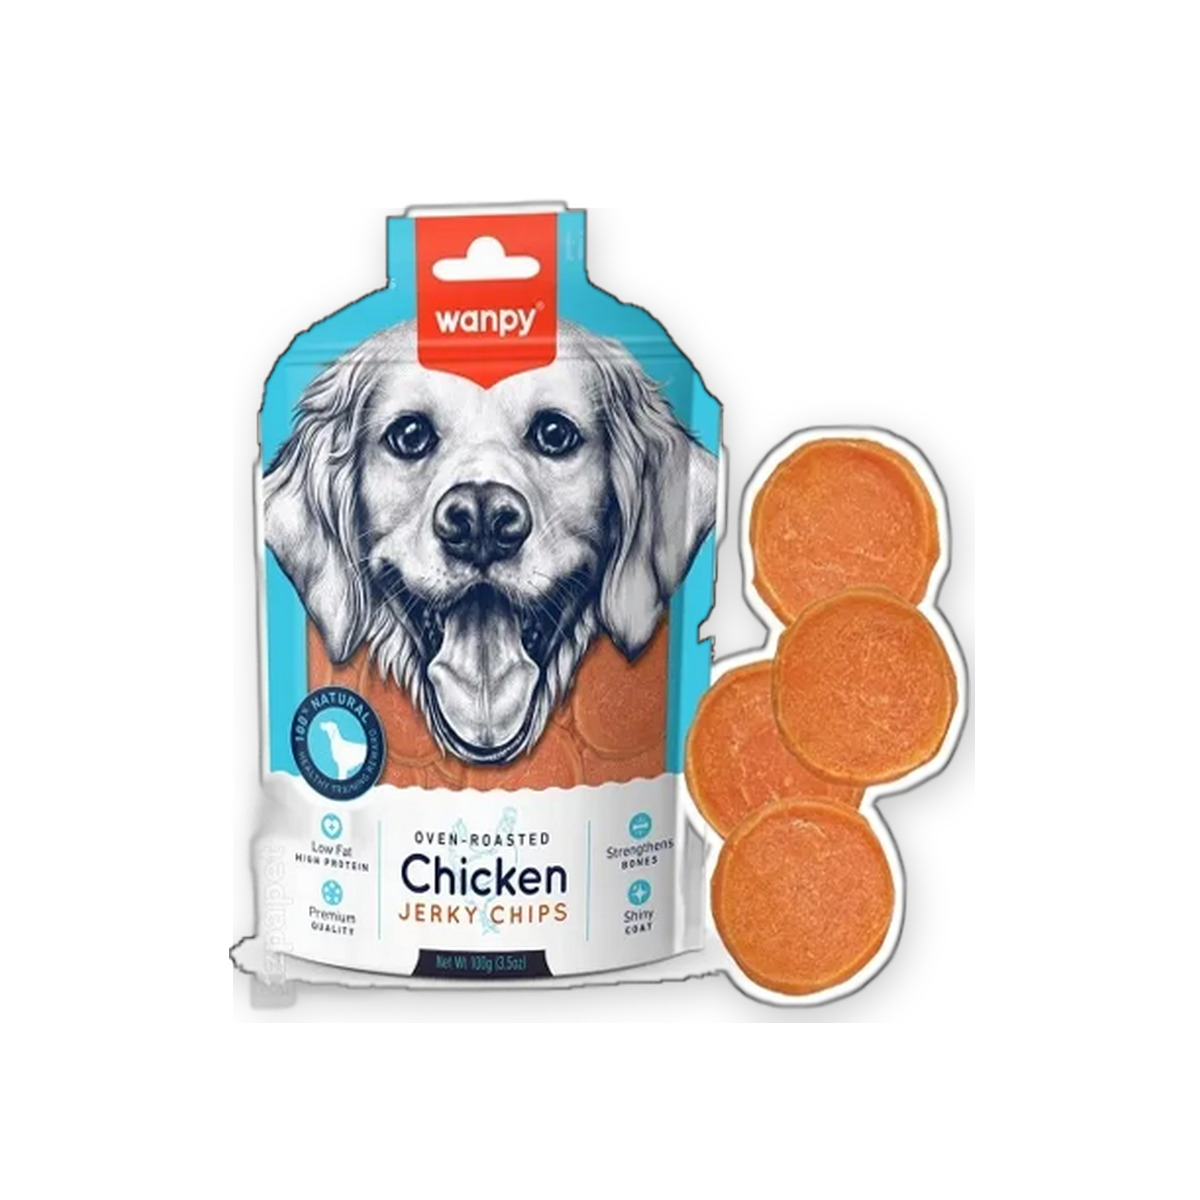
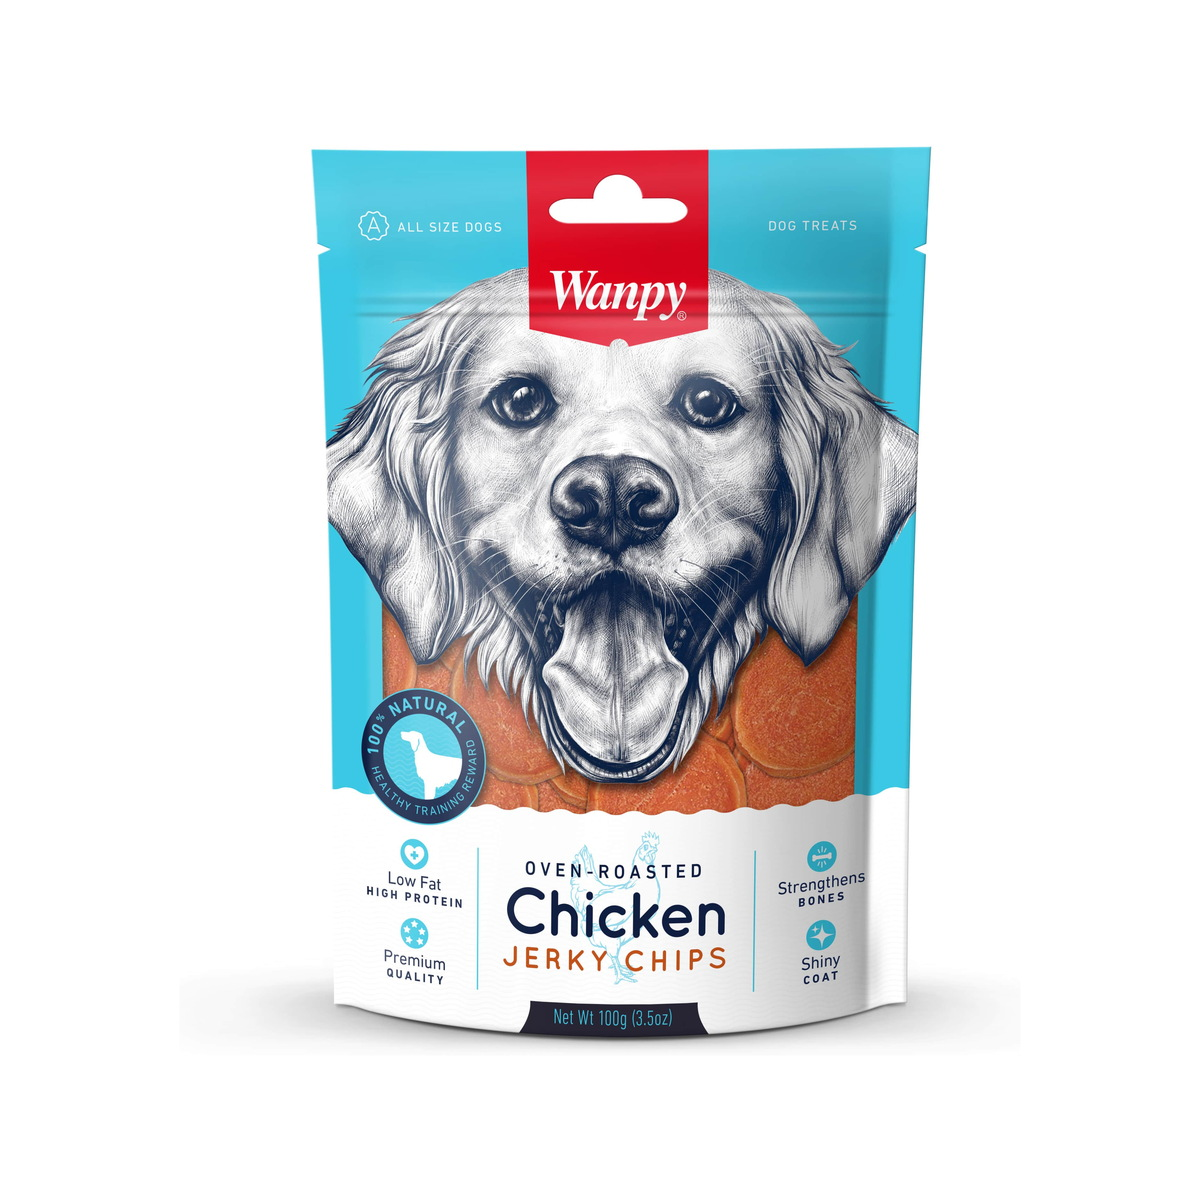
chore(shop): swap p260 Wanpy chips + p265 ACANO grass remakes + w2-v2

diff --git a/packages/api/src/data/shop-batch-multi-wave2-products.selftest.ts b/packages/api/src/data/shop-batch-multi-wave2-products.selftest.ts
@@ -1,5 +1,5 @@
 /**
- * Shop Batch-multi wave 2/5 — 10 SKUs, zero margin, 3-angle batch-multi-w2-v1 galleries.
+ * Shop Batch-multi wave 2/5 — 10 SKUs, zero margin, 3-angle batch-multi-w2-v2 galleries.
  * Run: npx tsx src/data/shop-batch-multi-wave2-products.selftest.ts
  */
 import assert from 'node:assert/strict';
@@ -77,7 +77,7 @@ async function main() {
   assert.equal(seed.SHOP_BATCH_MULTI_WAVE2_PRODUCTS[7]?.slug, 'dog-toys-ufo-treat-dispenser-dog-toy');
   assert.equal(seed.SHOP_BATCH_MULTI_WAVE2_PRODUCTS[8]?.id, 'p268');
   assert.equal(seed.SHOP_BATCH_MULTI_WAVE2_PRODUCTS[8]?.slug, 'dog-toys-crab-silicone-dog-chew-toothbrush-toy');
-  assert.equal(seed.SHOP_BATCH_MULTI_WAVE2_CACHE_BUST, 'batch-multi-w2-v1');
+  assert.equal(seed.SHOP_BATCH_MULTI_WAVE2_CACHE_BUST, 'batch-multi-w2-v2');
   assert.ok(
     !seed.SHOP_BATCH_MULTI_WAVE2_PRODUCTS.some((p) => (HELD_SHOP_SLUGS as readonly string[]).includes(p.slug)),
     'no held slugs remain in batch-multi wave 2 products'
@@ -157,7 +157,7 @@ async function main() {
   for (const row of rows) {
     assert.equal(row.price_toman, EXPECTED_PRICE[row.slug], `${row.slug} exact MANIFEST price`);
     assert.equal(row.cost_toman, row.price_toman, `${row.slug} margin 0`);
-    assert.match(row.image, new RegExp(`/pepito/uploads/${row.slug}\\.jpg\\?v=batch-multi-w2-v1$`));
+    assert.match(row.image, new RegExp(`/pepito/uploads/${row.slug}\\.jpg\\?v=batch-multi-w2-v2$`));
     assert.equal(row.badge, 'new');
     assert.equal(Number(row.featured), 1);
     assert.equal(Number(row.in_stock), 1);
@@ -171,8 +171,8 @@ async function main() {
       .filter(Boolean);
     assert.equal(gallery.length, 3, `${row.slug} stores 3 gallery URLs`);
     assert.equal(gallery[0], row.image, `${row.slug} first gallery src is cover`);
-    assert.ok(gallery[1]?.includes(`${row.slug}-2.jpg?v=batch-multi-w2-v1`), `${row.slug} angle 2`);
-    assert.ok(gallery[2]?.includes(`${row.slug}-3.jpg?v=batch-multi-w2-v1`), `${row.slug} angle 3`);
+    assert.ok(gallery[1]?.includes(`${row.slug}-2.jpg?v=batch-multi-w2-v2`), `${row.slug} angle 2`);
+    assert.ok(gallery[2]?.includes(`${row.slug}-3.jpg?v=batch-multi-w2-v2`), `${row.slug} angle 3`);
     assert.ok('__titleEn' in params, `${row.slug} stores titleEn key`);
     if (NO_INVENTED_WEIGHT.has(row.slug)) {
       assert.equal(params['وزن'], undefined, `${row.slug} must not invent وزن`);
@@ -185,8 +185,8 @@ async function main() {
     .all() as Array<{ slug: string }>;
   assert.equal(cats.length, 3, 'wave-2 categories are seeded');
 
-  const bust = readFileSync(join(repoRoot, 'tmp/cache-bust-shop-batch-multi-w2-v1'), 'utf8');
-  assert.match(bust, /batch-multi-w2-v1/, 'cache-bust marker present');
+  const bust = readFileSync(join(repoRoot, 'tmp/cache-bust-shop-batch-multi-w2-v2'), 'utf8');
+  assert.match(bust, /batch-multi-w2-v2/, 'cache-bust marker present');
 
   const imageNames = SHOP_BATCH_MULTI_WAVE2_SLUGS.flatMap((slug) => [
     `${slug}.jpg`,

diff --git a/packages/web/src/data/shopGallery.selftest.ts b/packages/web/src/data/shopGallery.selftest.ts
@@ -115,9 +115,9 @@ for (const [id, slug, price] of batchMultiW2) {
   assert.equal(item.priceToman, price, `${id} MANIFEST price`);
   const shots = productGallery(item);
   assert.equal(shots.length, 3, `${id} gallery has 3 unique angles`);
-  assert.ok(shots[0].includes(`${slug}.jpg?v=batch-multi-w2-v1`), `${id} front is batch-multi-w2-v1`);
-  assert.ok(shots[1].includes(`${slug}-2.jpg?v=batch-multi-w2-v1`), `${id} angle 2 is batch-multi-w2-v1`);
-  assert.ok(shots[2].includes(`${slug}-3.jpg?v=batch-multi-w2-v1`), `${id} angle 3 is batch-multi-w2-v1`);
+  assert.ok(shots[0].includes(`${slug}.jpg?v=batch-multi-w2-v2`), `${id} front is batch-multi-w2-v2`);
+  assert.ok(shots[1].includes(`${slug}-2.jpg?v=batch-multi-w2-v2`), `${id} angle 2 is batch-multi-w2-v2`);
+  assert.ok(shots[2].includes(`${slug}-3.jpg?v=batch-multi-w2-v2`), `${id} angle 3 is batch-multi-w2-v2`);
   assert.doesNotMatch(shots.join(' '), /purple|5c4d91|بنفش/i, `${id} gallery has no purple asset`);
 }
 assert.ok(getProduct('dog-treats-wanpy-chicken-jerky-chips-100g'), 'Wanpy jerky chips is in catalog');

diff --git a/packages/api/src/data/shop-batch-multi-wave2-products.ts b/packages/api/src/data/shop-batch-multi-wave2-products.ts
@@ -2,14 +2,14 @@
  * PetDate shop Batch-multi wave 2/5 — 10 live SKUs (p260–p269).
  * Additive, idempotent upsert by slug. Margin 0 (cost_toman = price_toman).
  * Seller copy is پت دیت شاپ only. Do not invent missing weights.
- * Gallery cache-bust is batch-multi-w2-v1 (wave 1 stays on batch-multi-w1-v4).
+ * Gallery cache-bust is batch-multi-w2-v2 (wave 1 stays on batch-multi-w1-v4).
  */
 import { getDb } from '../db';
 import { withShopImagesParam } from './shop-product-images';
 import { HELD_SHOP_SLUGS, SHOP_BATCH_MULTI_WAVE2_SLUGS } from './shop-zero-margin-slugs';
 
 const P = '/pepito/uploads';
-export const SHOP_BATCH_MULTI_WAVE2_CACHE_BUST = "batch-multi-w2-v1";
+export const SHOP_BATCH_MULTI_WAVE2_CACHE_BUST = "batch-multi-w2-v2";
 
 function multiGallery(slug: string): { image: string; images: string[] } {
   const images = [

diff --git a/packages/api/src/data/shop-live-catalog.selftest.ts b/packages/api/src/data/shop-live-catalog.selftest.ts
@@ -280,7 +280,7 @@ async function main() {
   assert.match(String(p259.image), /dog-treats-wanpy-toothbrush-chews-100g\.jpg\?v=batch-multi-w1-v4$/);
   assert.match(
     String(p269.image),
-    /dog-toys-luna-squeaky-smile-watermelon-plush-dog-toy\.jpg\?v=batch-multi-w2-v1$/
+    /dog-toys-luna-squeaky-smile-watermelon-plush-dog-toy\.jpg\?v=batch-multi-w2-v2$/
   );
   assert.match(
     String(p279.image),

diff --git a/packages/web/src/data/shopBatchMultiWave2Products.ts b/packages/web/src/data/shopBatchMultiWave2Products.ts
@@ -1,7 +1,7 @@
 import type { ShopProduct } from './shopCatalog';
 
 const P = '/pepito/uploads';
-const V = "batch-multi-w2-v1";
+const V = "batch-multi-w2-v2";
 
 function gallery(slug: string): { image: string; images: string[] } {
   const images = [

diff --git a/scripts/gen-shop-batch-multi-wave2.py b/scripts/gen-shop-batch-multi-wave2.py
@@ -271,7 +271,7 @@ def write_api() -> None:
  * PetDate shop Batch-multi wave 2/5 — 10 live SKUs (p260–p269).
  * Additive, idempotent upsert by slug. Margin 0 (cost_toman = price_toman).
  * Seller copy is پت دیت شاپ only. Do not invent missing weights.
- * Gallery cache-bust is batch-multi-w2-v1 (wave 1 stays on batch-multi-w1-v1).
+ * Gallery cache-bust is batch-multi-w2-v2 (wave 1 stays on batch-multi-w1-v1).
  */
 import {{ getDb }} from '../db';
 import {{ withShopImagesParam }} from './shop-product-images';
@@ -467,7 +467,7 @@ def write_price_index() -> None:
 
 
 def write_cache_bust() -> None:
-    dest = ROOT / "tmp/cache-bust-shop-batch-multi-w2-v1"
+    dest = ROOT / "tmp/cache-bust-shop-batch-multi-w2-v2"
     dest.write_text(f"{CACHE_BUST}\n")
 
 
@@ -477,8 +477,8 @@ def main() -> None:
         raise SystemExit(f"missing descriptions: {missing}")
     if [p["proposedId"] for p in PRODUCTS] != [f"p{i}" for i in range(260, 270)]:
         raise SystemExit("wave 2 ids must be p260–p269 in order")
-    if CACHE_BUST != "batch-multi-w2-v1":
-        raise SystemExit("wave 2 cache bust must be batch-multi-w2-v1")
+    if CACHE_BUST != "batch-multi-w2-v2":
+        raise SystemExit("wave 2 cache bust must be batch-multi-w2-v2")
     write_web()
     write_api()
     write_price_index()
